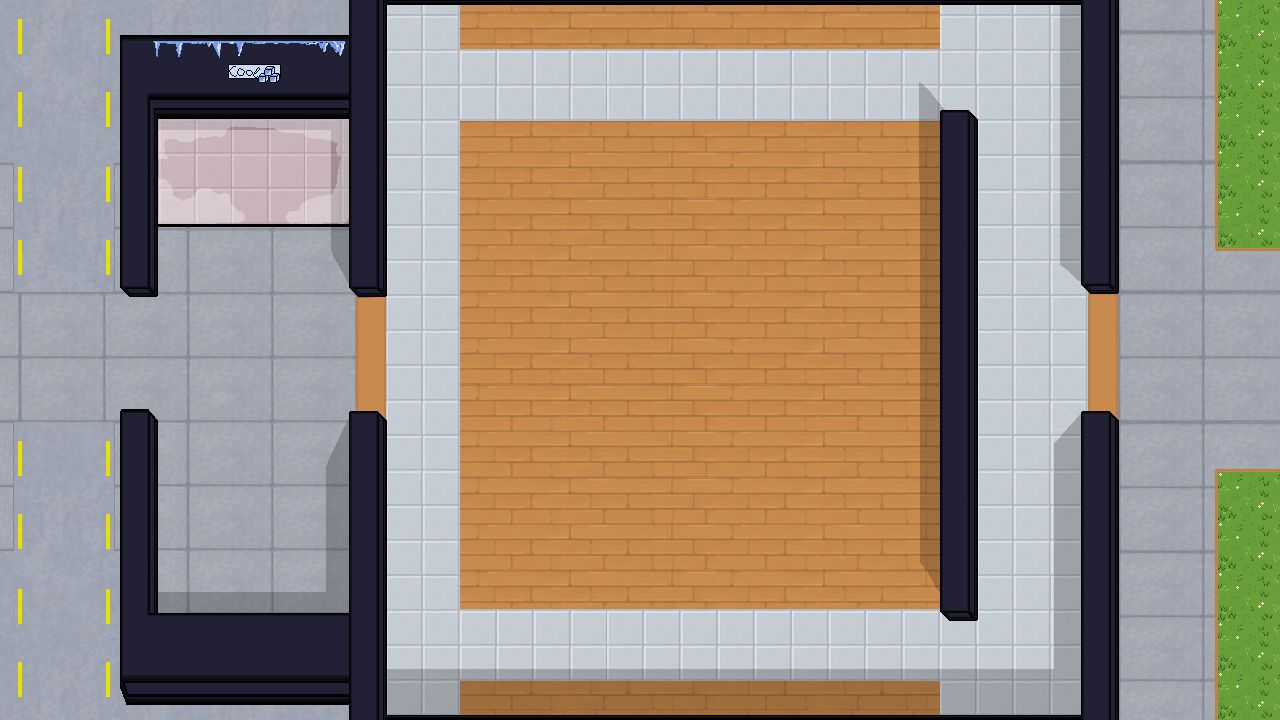
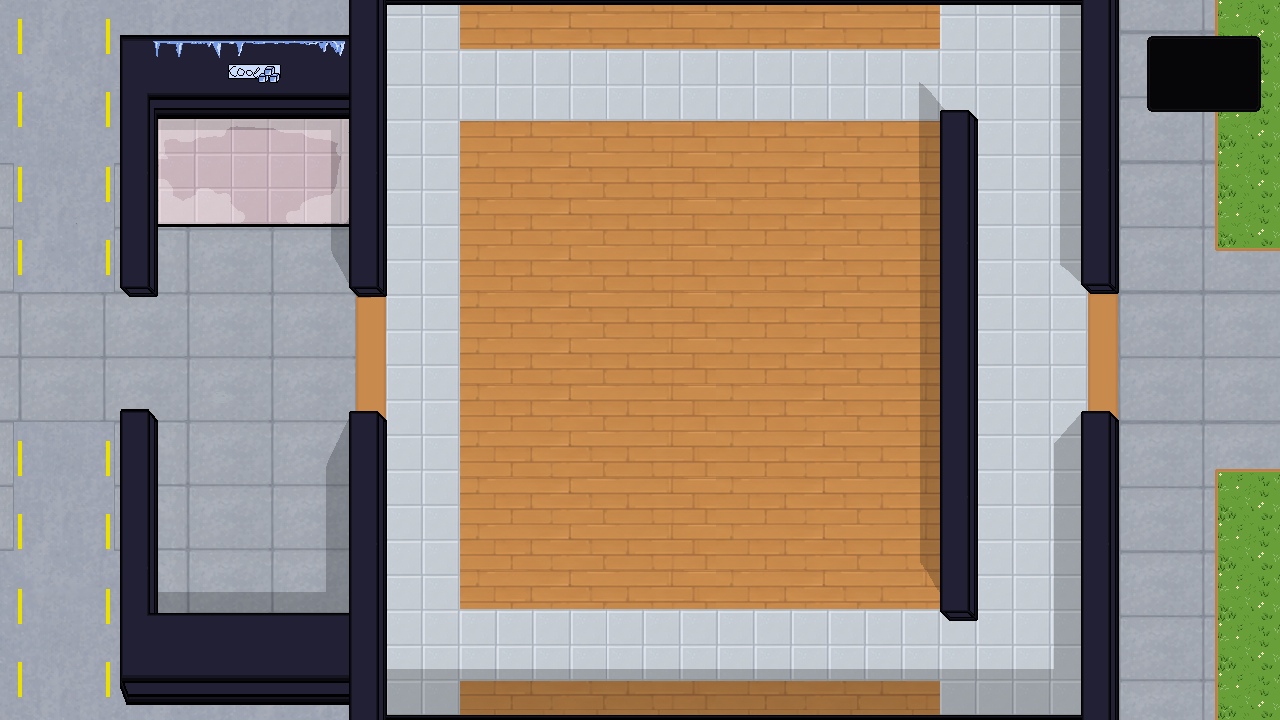
finishing touches
added a block with information containing the amount of products sold and amount of money earned

Changed region(s): [[0.875, 0.0306, 1.0, 0.1528]]

diff --git a/src/main/java/core/Simulation.java b/src/main/java/core/Simulation.java
@@ -16,6 +16,7 @@ import objects.path.pathfinder.dijkstracache.DijkstraCachePathFinderStrategy;
 import objects.shelf.Shelf;
 import objects.shelf.ShelfManager;
 import objects.background.BackgroundLoader;
+import objects.stats.Stats;
 import objects.truck.Truck;
 
 import java.util.ArrayList;
@@ -61,13 +62,13 @@ public class Simulation implements Updatable{
         productsList.add(new Product(ProductType.PIZZA));
         productsList.add(new Product(ProductType.BREAD));
 
-
         // create register
         Register register1 = new Register(590, 531);
         Register register2 = new Register(738, 531);
 
         // create text test
-        FloatingNumber priceTotal = new FloatingNumber("100€", 637, 589);
+        FloatingNumber priceTotal = new FloatingNumber( () ->"money earned = " + String.valueOf(Stats.GetMoneyEarned() + " €"), 1153, 52);
+        FloatingNumber productTotal = new FloatingNumber(()->"products = " + String.valueOf(Stats.GetProductsSold()), 1153, 72);
 
         // Create shelf manager
         shelfManager = new ShelfManager("/json/shelfs/shelfs.json", game);
@@ -103,11 +104,14 @@ public class Simulation implements Updatable{
         // add the register
         game.addObject(register1);
         game.addObject(register2);
+        // add the text
         game.addObject(priceTotal);
+        game.addObject(productTotal);
 
 
         // test if checkout works
         register1.CheckOut(productsList);
+        register2.CheckOut(productsList);
 
         // Create graph
         GraphData graphData = GraphData.fromJson("/json/graph/graph.json");

diff --git a/src/main/java/objects/FloatingText/FloatingNumber.java b/src/main/java/objects/FloatingText/FloatingNumber.java
@@ -5,14 +5,18 @@ import javafx.scene.canvas.GraphicsContext;
 import javafx.scene.paint.Color;
 import javafx.scene.text.Font;
 
+import java.util.function.Supplier;
+
 
 public class FloatingNumber implements Renderable {
 
-    private String text;
+    // ==== Variables =====
+    private Supplier<String> text;
     private float x;
     private float y;
 
-    public FloatingNumber(String text, float x, float y) {
+    // ==== constructor ====
+    public FloatingNumber(Supplier<String> text, float x, float y) {
         this.text = text;
         this.x = x;
         this.y = y;
@@ -22,11 +26,10 @@ public class FloatingNumber implements Renderable {
     public void render(GraphicsContext g) {
         g.setFont(new Font("Arial", 10));
         g.setFill(Color.WHITE);
-        g.fillText(text, x + 2, y + 2);
 
+        g.fillText(text.get(), x + 2, y + 2);
     }
-    public void SetText(String text){this.text = text;
-    }
+
 
     @Override
     public float getX() {

diff --git a/src/main/java/objects/stats/Stats.java b/src/main/java/objects/stats/Stats.java
@@ -1,9 +1,19 @@
 package objects.stats;
 
-public class Stats {
+import core.Simulation;
+import core.Updatable;
+import objects.FloatingText.FloatingNumber;
+
+public class Stats  {
     // ==== variables ====
     private static int amountProductsSold      = 0;
     private static double amountMoneyEarned    = 0;
+
+    // needs to be a float to be used correctly
+    private float xTextLocation = 1153;
+    private float yTextLocation2 = 72;
+    private float yTextLocation1 = 42;
+
 
     // ==== constructor ====
     public static void IncrementProductSold(int amount){
@@ -21,4 +31,5 @@ public class Stats {
     public static double GetMoneyEarned() {
         return amountMoneyEarned;
     }
+
 }
